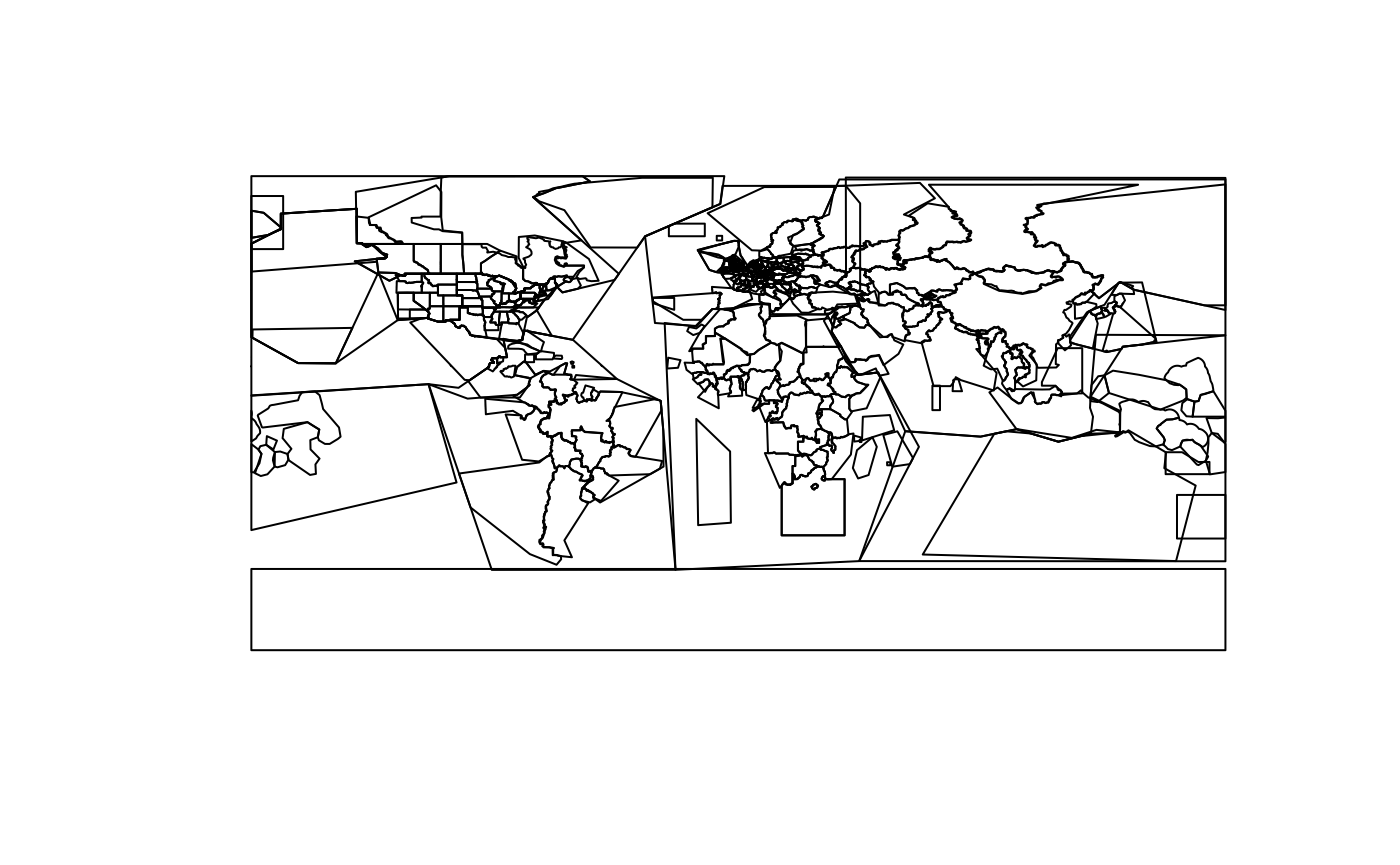
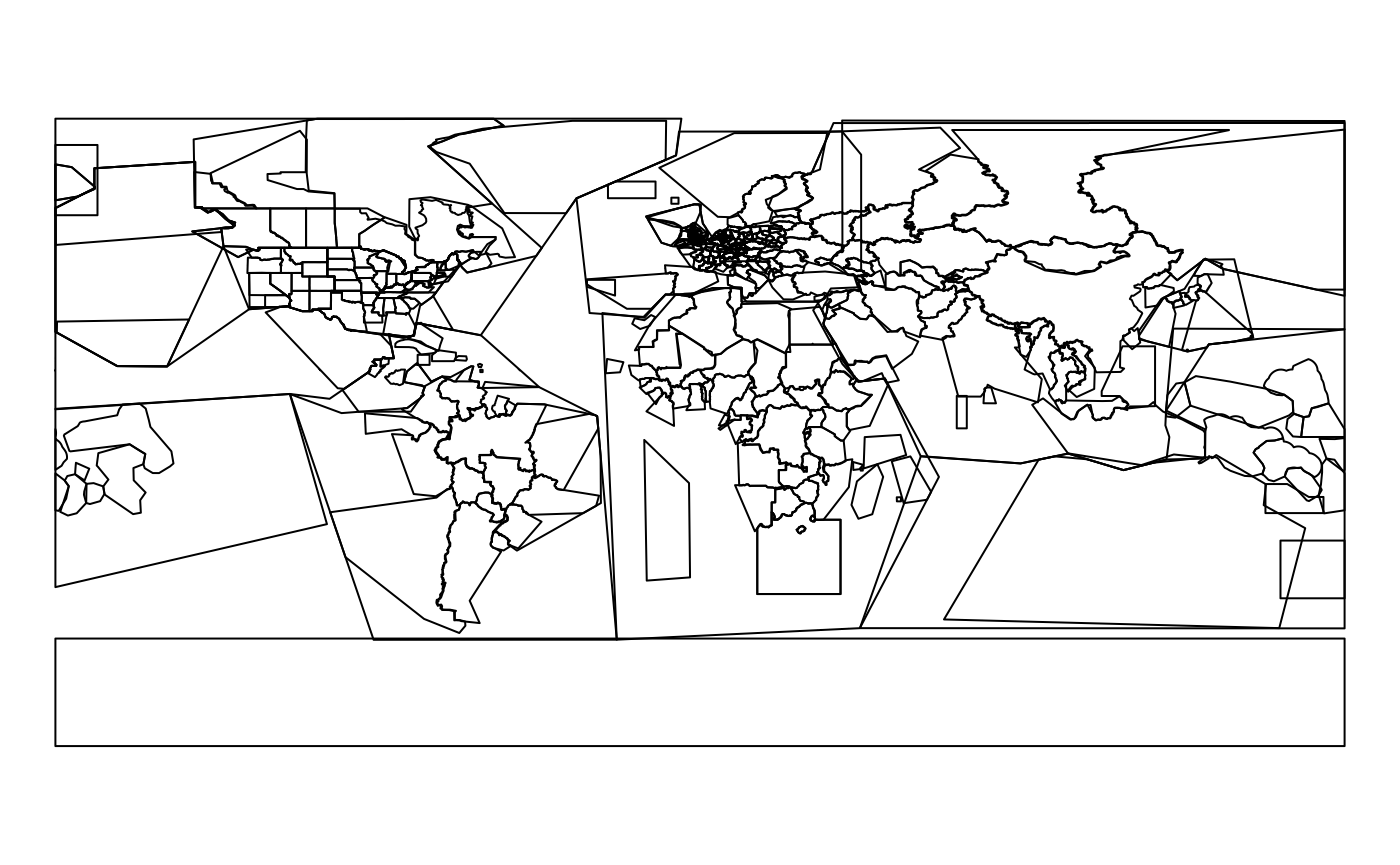
Built site for osmextract: 0.1.0@89e3e81

diff --git a/articles/osmextract.html b/articles/osmextract.html
@@ -155,11 +155,13 @@
 </pre></div>
 <p>That gives you access to many geographic functions for working with geographic vector data of the type provided by <code>osmextract</code>. Each row of data in an <code>sf</code> object contains a geometry, representing the area covered by each provider zone, meaning you can plot the data as follows:</p>
 <div class="sourceCode" id="cb5"><pre class="downlit">
+<span class="fu"><a href="https://rdrr.io/r/graphics/par.html">par</a></span>(mar = <span class="fu"><a href="https://rdrr.io/r/base/rep.html">rep</a></span>(<span class="fl">0.1</span>, <span class="fl">4</span>))
 <span class="fu"><a href="https://rdrr.io/pkg/sf/man/plot.html">plot</a></span>(<span class="kw">geofabrik_zones</span><span class="op">$</span><span class="kw">geometry</span>)
 </pre></div>
 <p><img src="osmextract_files/figure-html/unnamed-chunk-5-1.png" width="700"></p>
 <p>The plot above shows how the provider divides geographic space into discrete chunks. Different providers have other zoning systems.</p>
 <div class="sourceCode" id="cb6"><pre class="downlit">
+<span class="fu"><a href="https://rdrr.io/r/graphics/par.html">par</a></span>(mar = <span class="fu"><a href="https://rdrr.io/r/base/rep.html">rep</a></span>(<span class="fl">0.1</span>, <span class="fl">4</span>))
 <span class="fu"><a href="https://rdrr.io/pkg/sf/man/plot.html">plot</a></span>(<span class="kw">bbbike_zones</span><span class="op">$</span><span class="kw">geometry</span>, xlim = <span class="fu"><a href="https://rdrr.io/r/base/c.html">c</a></span>(<span class="op">-</span><span class="fl">2</span>, <span class="fl">10</span>), ylim = <span class="fu"><a href="https://rdrr.io/r/base/c.html">c</a></span>(<span class="fl">30</span>, <span class="fl">60</span>))
 </pre></div>
 <p><img src="osmextract_files/figure-html/unnamed-chunk-6-1.png" width="700"></p>
@@ -234,7 +236,8 @@
 <div id="finding-zones-based-on-geographic-inputs" class="section level3">
 <h3 class="hasAnchor">
 <a href="#finding-zones-based-on-geographic-inputs" class="anchor"></a>Finding zones based on geographic inputs</h3>
-<p>The input <code>place</code> can be also specified using an <code>sfc_POINT</code> object with arbitrary CRS as documented in the following example. If there are multiple matches, the function returns the smallest area (according to the <code>level</code> variable). I would ignore the CRS warning for the moment.</p>
+<p>The input <code>place</code> can be also specified using an <code>sfc_POINT</code> object with arbitrary CRS as documented in the following example. If there are multiple matches, the function returns the smallest area (according to the <code>level</code> variable).</p>
+<!-- I would ignore the CRS warning for the moment.  -->
 <div class="sourceCode" id="cb11"><pre class="downlit">
 <span class="kw">coords_milan</span> <span class="op">=</span> <span class="kw">sf</span>::<span class="fu"><a href="https://rdrr.io/pkg/sf/man/st.html">st_point</a></span>(<span class="fu"><a href="https://rdrr.io/r/base/c.html">c</a></span>(<span class="fl">1514924.21</span>, <span class="fl">5034552.92</span>)) <span class="co"># Duomo di Milano</span>
 <span class="kw">st_sfc_milan</span> <span class="op">=</span> <span class="kw">sf</span>::<span class="fu"><a href="https://rdrr.io/pkg/sf/man/sfc.html">st_sfc</a></span>(<span class="kw">coords_milan</span>, crs = <span class="fl">3003</span>)
@@ -248,16 +251,13 @@
 </pre></div>
 <p>The input <code>place</code> can be also specified using a numeric vector of coordinates. In that case the CRS is assumed to be 4326:</p>
 <div class="sourceCode" id="cb12"><pre class="downlit">
-<span class="fu"><a href="../reference/oe_match.html">oe_match</a></span>(<span class="fu"><a href="https://rdrr.io/r/base/c.html">c</a></span>(<span class="fl">9.1916</span>, <span class="fl">45.4650</span>)) <span class="co"># Duomo di Milano</span>
+<span class="fu"><a href="../reference/oe_match.html">oe_match</a></span>(<span class="fu"><a href="https://rdrr.io/r/base/c.html">c</a></span>(<span class="fl">9.1916</span>, <span class="fl">45.4650</span>)) <span class="co"># Duomo di Milano using EPSG: 4326</span>
 <span class="co">#&gt; although coordinates are longitude/latitude, st_intersects assumes that they are planar</span>
 <span class="co">#&gt; $url</span>
 <span class="co">#&gt; [1] "https://download.geofabrik.de/europe/italy/nord-ovest-latest.osm.pbf"</span>
 <span class="co">#&gt; </span>
 <span class="co">#&gt; $file_size</span>
 <span class="co">#&gt; [1] 416306623</span>
-<span class="fu"><a href="../reference/oe_match.html">oe_match</a></span>(<span class="fu"><a href="https://rdrr.io/r/base/c.html">c</a></span>(<span class="fl">9.1916</span>, <span class="fl">45.4650</span>, <span class="fl">9.2020</span>, <span class="fl">45.4781</span>))
-<span class="co">#&gt; Error in oe_match.numeric(c(9.1916, 45.465, 9.202, 45.4781)): You need to provide a pair of coordinates and you passed as input a vector of length 4</span>
-<span class="co"># oe_match(c(9.1916, 45.4650), c(9.2020, 45.4781)) FIXME with suitable check and error</span>
 </pre></div>
 <p>If there are several error matching the input place with one of the zone, you can also try increasing the maximum allowed string distance:</p>
 <div class="sourceCode" id="cb13"><pre class="downlit">
@@ -370,7 +370,7 @@
 <span class="co">#&gt; The chosen file was already detected in the download directory. Skip downloading.</span>
 <span class="co">#&gt; Start with the vectortranslate operations on the input file!</span>
 <span class="co">#&gt; Finished the vectortranslate operations on the input file!</span>
-<span class="co">#&gt; Reading layer `lines' from data source `/private/var/folders/24/8k48jl6d249_n_qfxwsl6xvm0000gn/T/Rtmp6qya0G/test_its-example.gpkg' using driver `GPKG'</span>
+<span class="co">#&gt; Reading layer `lines' from data source `/private/var/folders/24/8k48jl6d249_n_qfxwsl6xvm0000gn/T/Rtmpkd1g32/test_its-example.gpkg' using driver `GPKG'</span>
 <span class="co">#&gt; Simple feature collection with 21 features and 10 fields</span>
 <span class="co">#&gt; geometry type:  LINESTRING</span>
 <span class="co">#&gt; dimension:      XY</span>
@@ -405,7 +405,7 @@
 <span class="co">#&gt; The chosen file was already detected in the download directory. Skip downloading.</span>
 <span class="co">#&gt; Start with the vectortranslate operations on the input file!</span>
 <span class="co">#&gt; Finished the vectortranslate operations on the input file!</span>
-<span class="co">#&gt; Reading layer `lines' from data source `/private/var/folders/24/8k48jl6d249_n_qfxwsl6xvm0000gn/T/Rtmp6qya0G/test_its-example.gpkg' using driver `GPKG'</span>
+<span class="co">#&gt; Reading layer `lines' from data source `/private/var/folders/24/8k48jl6d249_n_qfxwsl6xvm0000gn/T/Rtmpkd1g32/test_its-example.gpkg' using driver `GPKG'</span>
 <span class="co">#&gt; Simple feature collection with 77 features and 10 fields</span>
 <span class="co">#&gt; geometry type:  LINESTRING</span>
 <span class="co">#&gt; dimension:      XY</span>

diff --git a/reference/oe_get.html b/reference/oe_get.html
@@ -270,7 +270,7 @@ the .osm.pbf file. <code>FALSE</code> by default.</p></td>
     <p>This function is a wrapper around ...</p>
 
     <h2 class="hasAnchor" id="examples"><a class="anchor" href="#examples"></a>Examples</h2>
-    <pre class="examples"><div class='input'><span class='kw'>its_leeds</span> <span class='op'>=</span> <span class='fu'>oe_get</span>(<span class='st'>"ITS Leeds"</span>, provider = <span class='st'>"test"</span>, quiet = <span class='fl'>FALSE</span>)</div><div class='output co'>#&gt; <span class='message'>The input place was matched with: ITS Leeds</span></div><div class='output co'>#&gt; <span class='message'>The chosen file was already detected in the download directory. Skip downloading.</span></div><div class='output co'>#&gt; <span class='message'>Start with the vectortranslate operations on the input file!</span></div><div class='output co'>#&gt; <span class='message'>Finished the vectortranslate operations on the input file!</span></div><div class='output co'>#&gt; Reading layer `lines' from data source `/private/var/folders/24/8k48jl6d249_n_qfxwsl6xvm0000gn/T/Rtmpe8vvBv/test_its-example.gpkg' using driver `GPKG'
+    <pre class="examples"><div class='input'><span class='kw'>its_leeds</span> <span class='op'>=</span> <span class='fu'>oe_get</span>(<span class='st'>"ITS Leeds"</span>, provider = <span class='st'>"test"</span>, quiet = <span class='fl'>FALSE</span>)</div><div class='output co'>#&gt; <span class='message'>The input place was matched with: ITS Leeds</span></div><div class='output co'>#&gt; <span class='message'>The chosen file was already detected in the download directory. Skip downloading.</span></div><div class='output co'>#&gt; <span class='message'>Start with the vectortranslate operations on the input file!</span></div><div class='output co'>#&gt; <span class='message'>Finished the vectortranslate operations on the input file!</span></div><div class='output co'>#&gt; Reading layer `lines' from data source `/private/var/folders/24/8k48jl6d249_n_qfxwsl6xvm0000gn/T/RtmprqXKPi/test_its-example.gpkg' using driver `GPKG'
 #&gt; Simple feature collection with 189 features and 9 fields
 #&gt; geometry type:  LINESTRING
 #&gt; dimension:      XY
@@ -296,7 +296,7 @@ the .osm.pbf file. <code>FALSE</code> by default.</p></td>
 #&gt;                  0                  0                  0                  0 
 #&gt;                TIN           TRIANGLE 
 #&gt;                  0                  0 </div><div class='input'><span class='co'># Get the .osm.pbf and .gpkg file path</span>
-<span class='fu'>oe_get</span>(<span class='st'>"ITS Leeds"</span>, provider = <span class='st'>"test"</span>, download_only = <span class='fl'>TRUE</span>)</div><div class='output co'>#&gt; [1] "/var/folders/24/8k48jl6d249_n_qfxwsl6xvm0000gn/T//Rtmpe8vvBv/test_its-example.gpkg"</div><div class='input'><span class='fu'>oe_get</span>(<span class='st'>"ITS Leeds"</span>, provider = <span class='st'>"test"</span>, download_only = <span class='fl'>TRUE</span>, skip_vectortranslate = <span class='fl'>TRUE</span>)</div><div class='output co'>#&gt; [1] "/var/folders/24/8k48jl6d249_n_qfxwsl6xvm0000gn/T//Rtmpe8vvBv/test_its-example.osm.pbf"</div><div class='input'><span class='co'># add additional attributes</span>
+<span class='fu'>oe_get</span>(<span class='st'>"ITS Leeds"</span>, provider = <span class='st'>"test"</span>, download_only = <span class='fl'>TRUE</span>)</div><div class='output co'>#&gt; [1] "/var/folders/24/8k48jl6d249_n_qfxwsl6xvm0000gn/T//RtmprqXKPi/test_its-example.gpkg"</div><div class='input'><span class='fu'>oe_get</span>(<span class='st'>"ITS Leeds"</span>, provider = <span class='st'>"test"</span>, download_only = <span class='fl'>TRUE</span>, skip_vectortranslate = <span class='fl'>TRUE</span>)</div><div class='output co'>#&gt; [1] "/var/folders/24/8k48jl6d249_n_qfxwsl6xvm0000gn/T//RtmprqXKPi/test_its-example.osm.pbf"</div><div class='input'><span class='co'># add additional attributes</span>
 <span class='kw'>im</span> <span class='op'>=</span> <span class='fu'>oe_get</span>(<span class='st'>"ITS Leeds"</span>, provider = <span class='st'>"test"</span>, extra_attributes = <span class='st'>"oneway"</span>)
 <span class='fu'><a href='https://rdrr.io/r/base/names.html'>names</a></span>(<span class='kw'>im</span>)</div><div class='output co'>#&gt;  [1] "osm_id"     "name"       "highway"    "waterway"   "aerialway" 
 #&gt;  [6] "barrier"    "man_made"   "oneway"     "z_order"    "other_tags"

diff --git a/reference/oe_download.html b/reference/oe_download.html
@@ -205,7 +205,7 @@ interactive mode. Default: <code>5e+8</code>, half a gigabyte.</p></td>
   <span class='co'># for the moment we always need to specify the provider for files</span>
   <span class='co'># matched with test provider</span>
   provider = <span class='st'>"test"</span>
-)</div><div class='output co'>#&gt; [1] "/var/folders/24/8k48jl6d249_n_qfxwsl6xvm0000gn/T//Rtmpe8vvBv/test_its-example.osm.pbf"</div><div class='input'><span class='co'>if</span> (<span class='fl'>FALSE</span>) {
+)</div><div class='output co'>#&gt; [1] "/var/folders/24/8k48jl6d249_n_qfxwsl6xvm0000gn/T//RtmprqXKPi/test_its-example.osm.pbf"</div><div class='input'><span class='co'>if</span> (<span class='fl'>FALSE</span>) {
 <span class='kw'>iow_details</span> <span class='op'>=</span> <span class='fu'><a href='oe_match.html'>oe_match</a></span>(<span class='st'>"Isle of Wight"</span>)
 <span class='fu'>oe_download</span>(
   file_url = <span class='kw'>iow_details</span><span class='op'>$</span><span class='kw'>url</span>,
